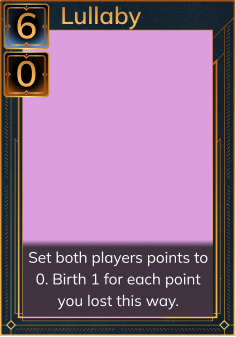
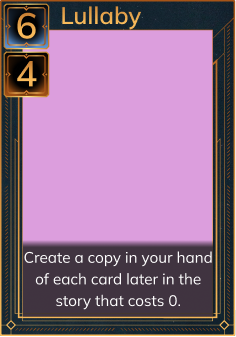
Added Dwindle, adjusted Lullaby

Changed region(s): [[0.089, 0.7418, 0.9195, 0.9199], [0.0593, 0.178, 0.178, 0.2671]]

diff --git a/src/scene/builderRegions/deck.ts b/src/scene/builderRegions/deck.ts
@@ -197,6 +197,11 @@ export default class DeckRegion {
 			totalCount += cutout.count
 		})
 
+		// NOTE Limit the max number of cards so that database doesn't get taxed
+		if (totalCount  >= Mechanics.deckSize * 2) {
+			return 'Deck is overfull.'
+		}
+
 		// If this card exists in the deck already, increment it
 		let alreadyInDeck = false
 		this.deck.forEach(cutout => {
